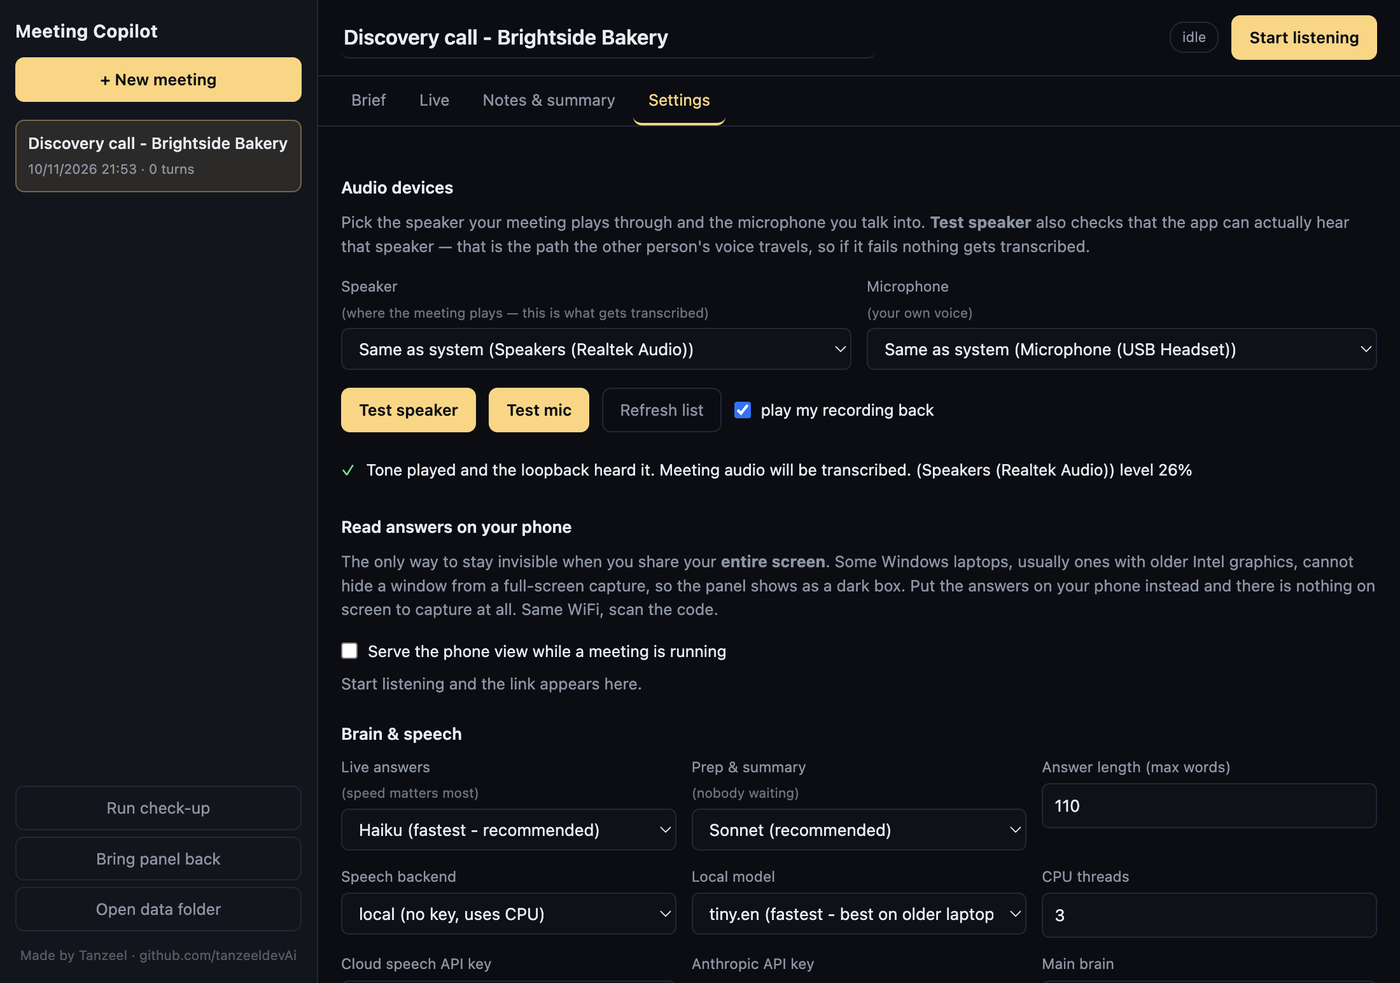
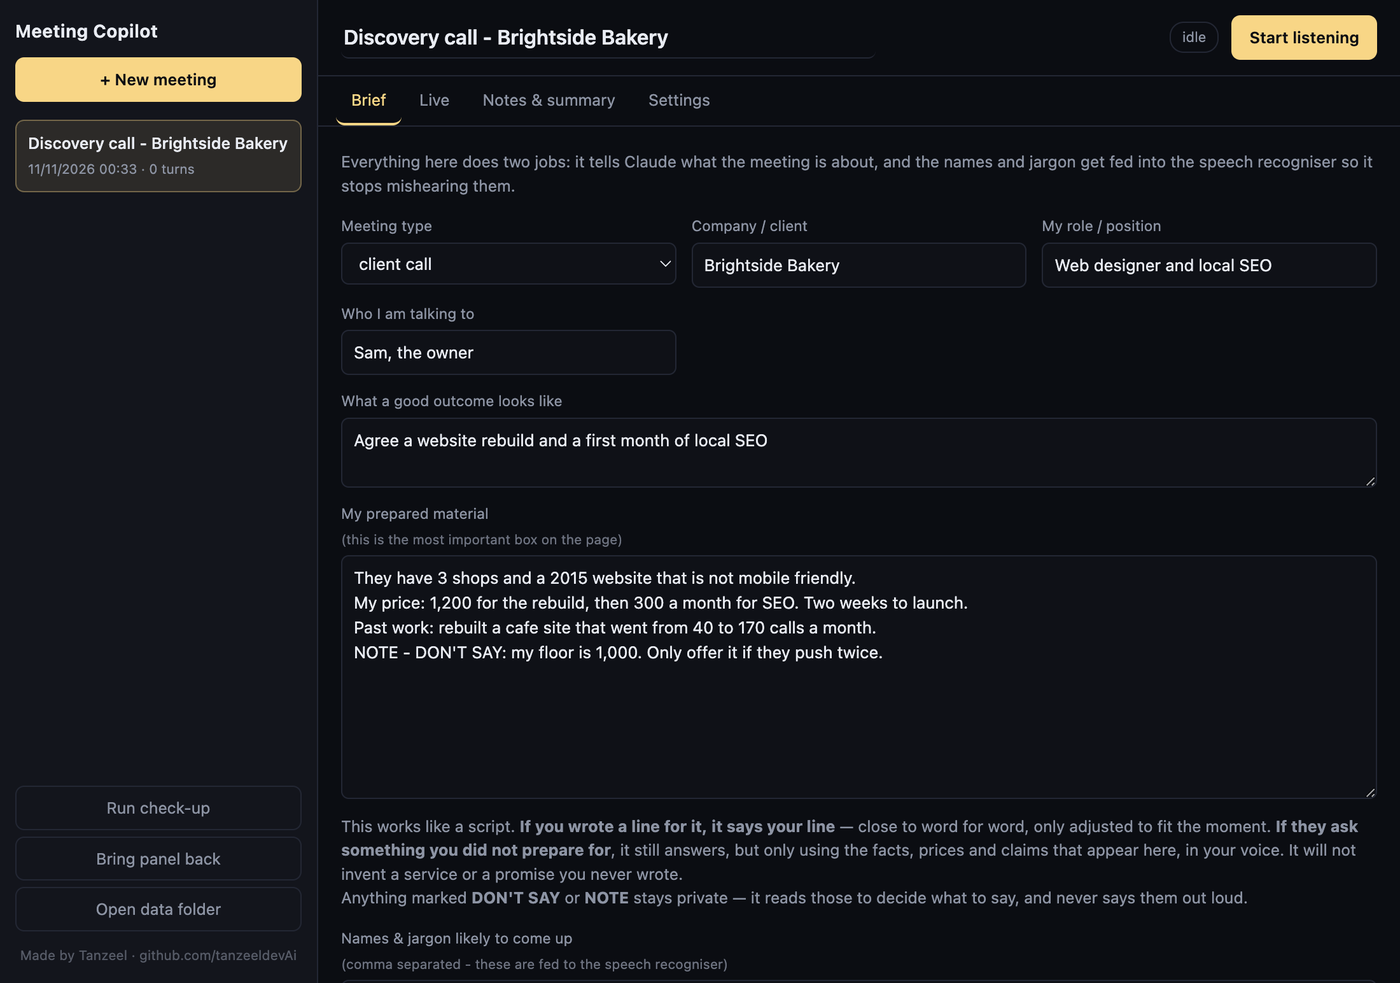
Fix the brief screenshot and tidy the README layout
The "brief" screenshot was a second copy of Settings: the window was behind
others, so capturePage() returned the previous frame. The preview tool now
forces a repaint and refuses to save a capture identical to the one before.
The at-a-glance table lost its empty header row, and the two screenshots
share a row at widths that make them the same height.

diff --git a/tools/dashboard-preview.js b/tools/dashboard-preview.js
@@ -112,10 +112,22 @@ app.whenReady().then(async () => {
   fs.writeFileSync(out, img.toPNG());
   console.log('  saved', out);
 
-  // And the Brief tab, where a meeting is prepared.
+  // And the Brief tab, where a meeting is prepared. A window that is behind
+  // others is not repainted, and capturePage() then hands back the previous
+  // frame: the "brief" picture came out as a second copy of Settings. So wait
+  // for two real frames, force a repaint, and refuse to save a duplicate.
   await wc.executeJavaScript(`document.querySelector('#tabs button[data-tab="brief"]').click(); true;`);
-  await new Promise((r) => setTimeout(r, 800));
-  const brief = await wc.capturePage();
+  win.show(); win.focus();
+  let brief = null;
+  for (let attempt = 0; attempt < 5; attempt++) {
+    await wc.executeJavaScript('new Promise((r) => requestAnimationFrame(() => requestAnimationFrame(() => r(true))))');
+    wc.invalidate();
+    await new Promise((r) => setTimeout(r, 600));
+    brief = await wc.capturePage();
+    if (!brief.toPNG().equals(img.toPNG())) break;
+    brief = null;
+  }
+  if (!brief) { console.error('  FAILED: the Brief capture never differed from Settings'); app.exit(1); return; }
   const out2 = path.join(__dirname, '..', 'data', 'dashboard-brief.png');
   fs.writeFileSync(out2, brief.toPNG());
   console.log('  saved', out2);

diff --git a/README.md b/README.md
@@ -43,14 +43,14 @@ such as Cluely, built for client calls, sales calls and consultations.
 
 ### At a glance
 
-| | |
-|---|---|
-| **Cost** | Free and open source (MIT) |
-| **AI** | Your Claude or ChatGPT subscription. No API key needed |
-| **Call apps** | Zoom, Google Meet, Microsoft Teams, Webex, any app that plays sound |
-| **Computers** | Windows 10 and 11, macOS 13 or newer |
-| **Speed** | About 2 to 5 seconds from their last word to the answer on screen, with Claude |
-| **Your data** | Briefs, transcripts and notes stay on your computer |
+<table>
+  <tr><td><b>Cost</b></td><td>Free and open source (MIT)</td></tr>
+  <tr><td><b>AI</b></td><td>Your Claude or ChatGPT subscription. No API key needed</td></tr>
+  <tr><td><b>Call apps</b></td><td>Zoom, Google Meet, Microsoft Teams, Webex, any app that plays sound</td></tr>
+  <tr><td><b>Computers</b></td><td>Windows 10 and 11, macOS 13 or newer</td></tr>
+  <tr><td><b>Speed</b></td><td>About 2 to 5 seconds from their last word to the answer on screen, with Claude</td></tr>
+  <tr><td><b>Your data</b></td><td>Briefs, transcripts and notes stay on your computer</td></tr>
+</table>
 
 ---
 
@@ -119,12 +119,12 @@ such as Cluely, built for client calls, sales calls and consultations.
 
 <table>
   <tr>
-    <td width="58%"><img src="docs/images/dashboard-brief.png" alt="Dashboard: writing the brief before a meeting"></td>
-    <td width="42%"><img src="docs/images/phone.png" alt="The phone view showing the transcript and the answer"></td>
+    <td width="73%"><img src="docs/images/dashboard-brief.png" alt="Dashboard: writing the brief before a meeting"></td>
+    <td width="27%"><img src="docs/images/phone.png" alt="The phone view showing the transcript and the answer"></td>
   </tr>
   <tr>
     <td align="center"><sub>Prepare the meeting: who you are meeting, your goal, your script and prices.</sub></td>
-    <td align="center"><sub>The same answers on your phone, for full-screen sharing.</sub></td>
+    <td align="center"><sub>The phone view, for full-screen sharing.</sub></td>
   </tr>
 </table>
 
